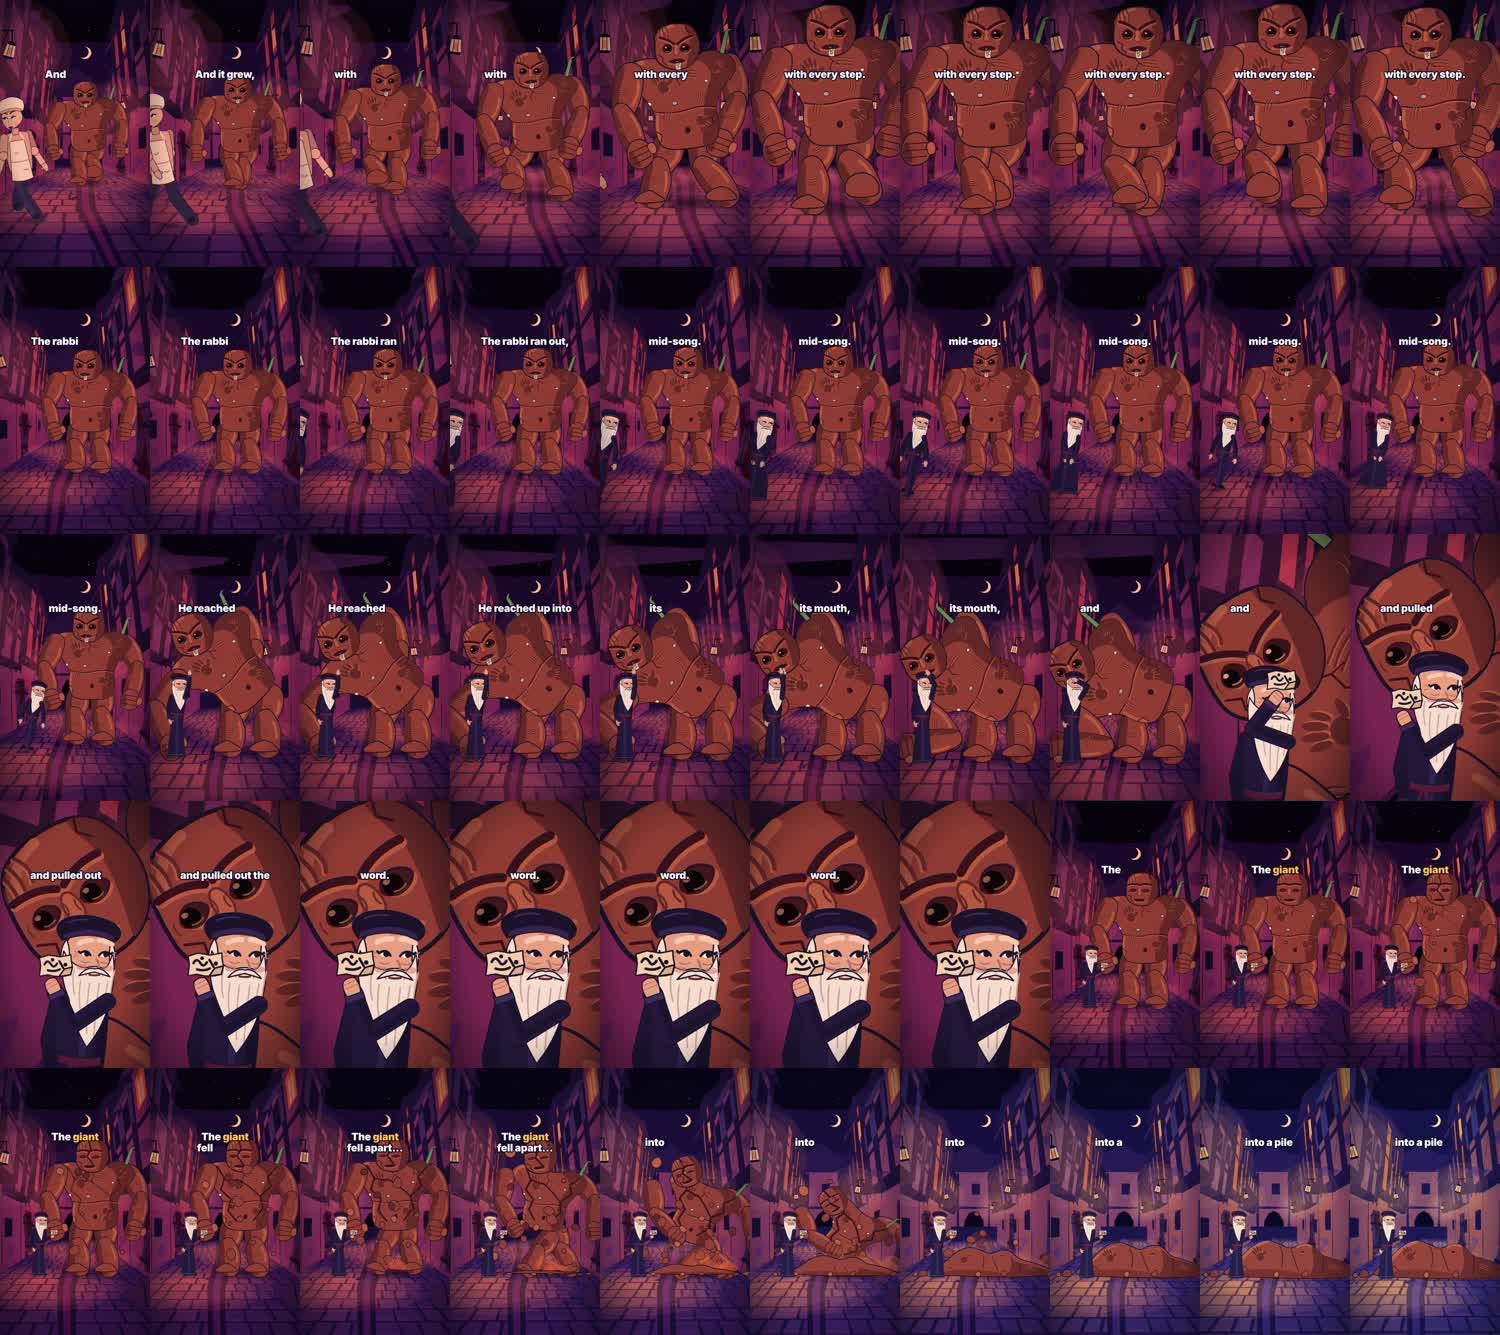
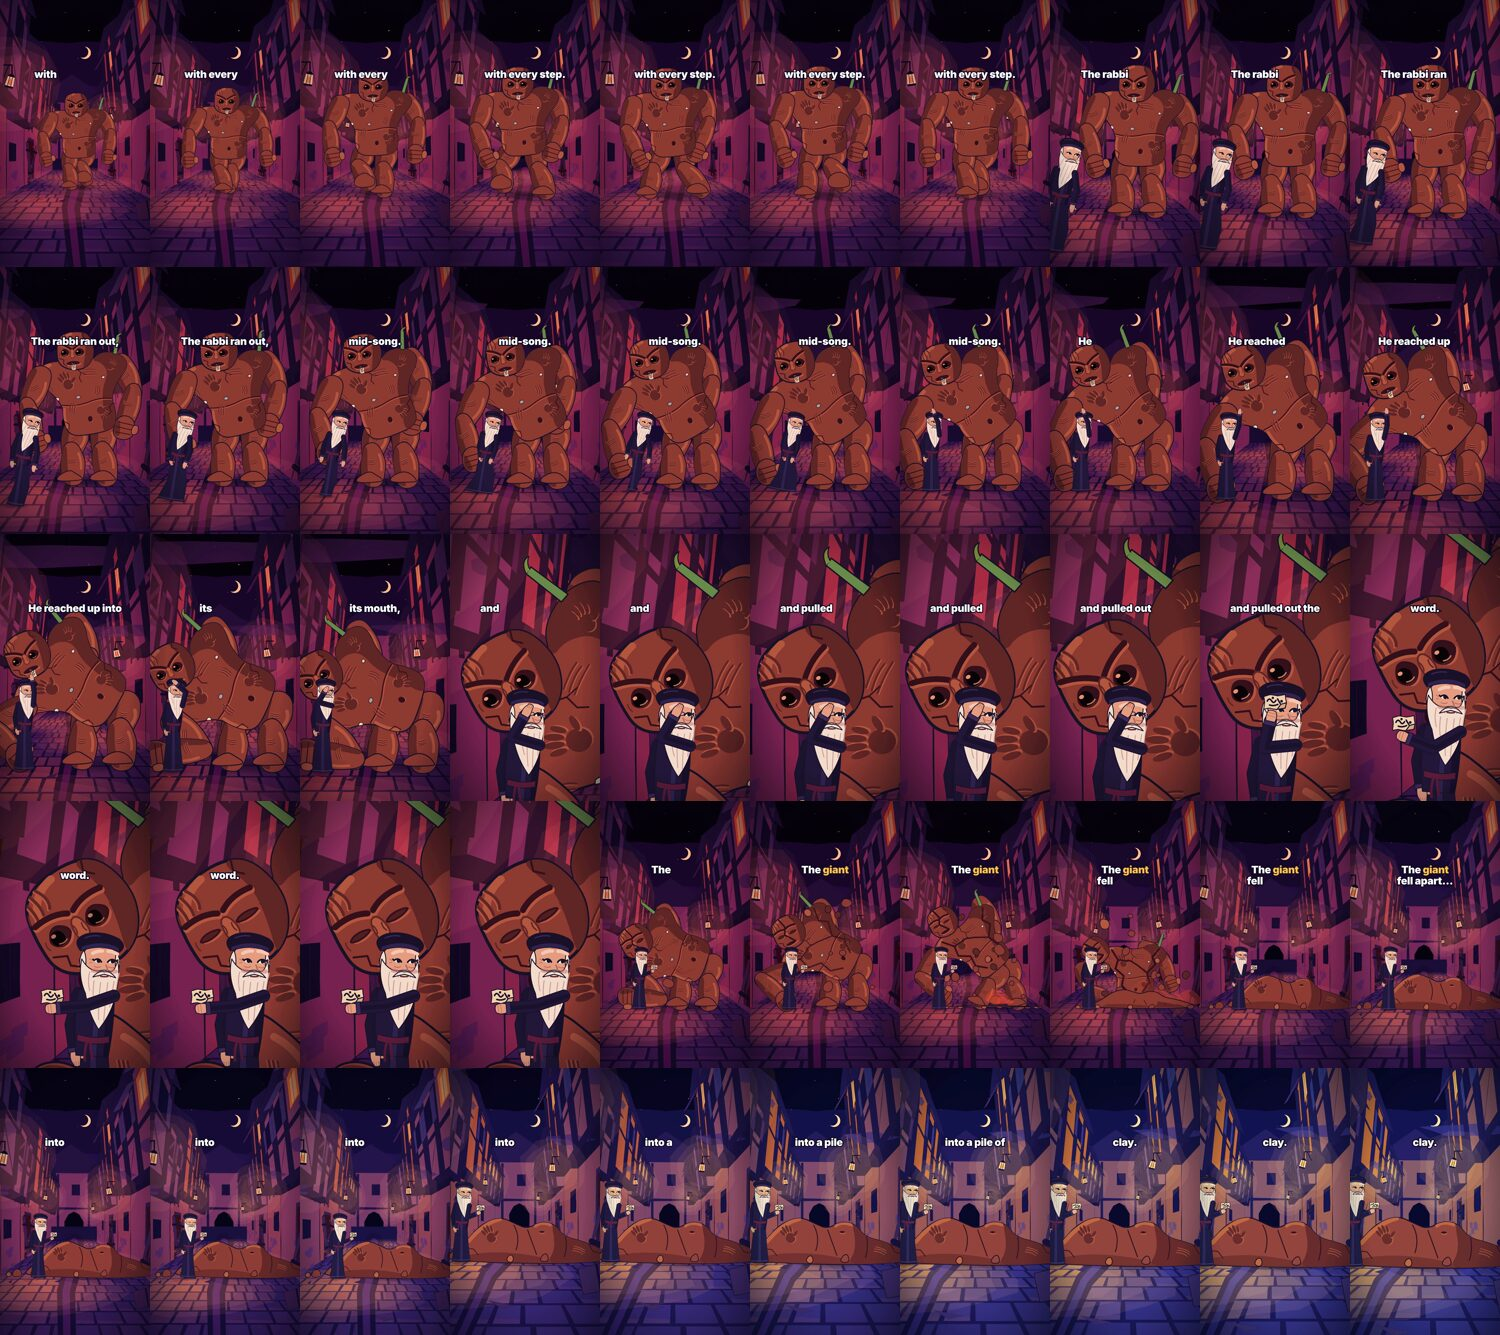
Temp: Sol r2 pack for Golem draft 2 (delete after use)

diff --git a/sol-pack/prompt.md b/sol-pack/prompt.md
@@ -1,15 +1,20 @@
-# Sol round 1: EDITOR pass (timing first) + glitch/logic review — "The Golem of Prague" (lesson-legend, rough draft 1)
+# Sol round 2: EDITOR pass (timing first) + glitch/logic review — "The Golem of Prague" (lesson-legend, draft 2)
 
-You are the editor and checker of an 87.6 s vertical (1080x1920, 30 fps) TikTok short. You get NO video, only files in this folder:
+You are the editor and checker of an 84.8 s vertical (1080x1920, 30 fps) TikTok short. You get NO video, only files in this folder:
 - `beats.txt`: every spoken line with its start-end time (s), speaker and text.
-- `sheet-1fps-00-47s.jpg`, `sheet-1fps-48-88s.jpg`: one frame per second (12 per row, left to right, top to bottom; the second sheet starts at 48 s).
+- `sheet-1fps-00-47s.jpg`, `sheet-1fps-48-84s.jpg`: one frame per second (12 per row, left to right, top to bottom; the second sheet starts at 48 s).
 - `strip-5fps-00s.jpg` ... `strip-5fps-80s.jpg`: five frames per second, each sheet covers 10 s (10 per row = 2 s per row), starting at the second in its name.
 
 ## The video
 The Golem of Prague legend (Rabbi Loew, Prague ~1600), told by two recurring hosts TODAY in Prague's Jewish Quarter at Friday dusk, outside the Old-New Synagogue whose back wall has iron rungs starting high up, leading to a small attic door: a curious, cheeky 12-year-old boy (pink quilted jacket) and his stern grandmother (indigo cloak, white bun, staff with a candle lantern = fear meter). The told story: the river at dawn (rabbi shapes a clay giant, puts a paper slip with a holy word in its mouth, it wakes), the night lane (it guards, carries a whole well ring), the rule ("Every Friday before sunset, I take the word out"), the synagogue during the Sabbath song (a woman bursts in), the rampage (doors split, cart thrown, it grows), the rabbi pulls the slip from its mouth, it crumbles to a clay pile, the attic (pile, 1920 reporter finds only dust), back to today: "Then why do they still sing that song twice? Every Friday." The song through the window, one heavy step in the attic, hard cut.
-SPECIAL: an OPENING TITLE (stone plaque "THE GOLEM ...it only rests on Friday nights") shows 0.25-2.6 s ABOVE the subtitles. It is deliberate (a trial); judge only its timing/readability, do not ask to remove it.
+SPECIAL: an OPENING TITLE (stone plaque "THE GOLEM ...it only rests on Friday nights") shows 0.25-2.6 s ABOVE the subtitles. It is deliberate; judge only its timing/readability, do not ask to remove it. The kid/grandmother lines L09 and L10 stay (the owner approved them as the format's dry host comedy); do not ask to cut them.
 Narrator + character voices, word-by-word subtitles in the upper third (fixed layout, each word appears when spoken). Colour follows mood (violet-rose dusk today, teal dawn river, indigo lane, gold synagogue, red-black rampage, brown attic). Music: lute + bass viol + frame drum; it stops dead on "Until one Friday" and for 0.4 s when the slip leaves the mouth.
 Everything is drawn in code (flat 2D vector, thin outlines, 2.5D sets with a moving camera). What can change cheaply: camera position/move/zoom per shot, cut points, shot order, holds and gaps, poses and expressions, inserts (close-ups of hands, the slip, the golem's eyes, the candle, the rungs, the attic door), music timing. Lines can be trimmed or dropped (not newly recorded easily). NEVER suggest a trim that cuts into a spoken word.
+
+## Round 1 asked for these fixes (what was done, what was not)
+DONE: A1 ending: song repeats under the lit window on "twice?", camera climbs from the hosts to the dark attic door through "Every Friday", one heavy step 0.62 s after the line, door shake + dust puff + flame gutter, hard cut 2 frames later (hosts at the bottom of the frame, small). A2 opening: tight on the boy's raised hands under the first rung, cut on "DOWN" to a medium two-shot with her hand on his jacket, his whole question in his close-up, tilt up the rungs in the gap. A4 rabbi runs in whole, golem bends continuously, tight on the slip held in the lips, it clears at the end of "word", eyes close on release, 0.4 s silence. A5 score killed on "Until one Friday", lane darkens, gold hall on the first sung phrase, tight on the slip in its mouth at "still in its mouth", song carries over. A6 two-shot rise with finger to the mouth, brief sinking-sun insert, golem standing for "even you rest" with its head under the captions. A7 distant crack, woman crossing the threshold, cut to Loew's reaction on "the giant". A8 impact shots end on their result, cart is released then flies out, growth against a doorway. A9 title: full contrast by 0.40, bigger darker tagline, readable to 2.29, gone by 2.6, above the subtitles. A10 writing hand, slip meets lips with the hand following, eye close-up with closed lids before the first blink. A11 Prague wide, push down the lane, resident goes into a doorway on "had enemies", camera carried past on "nobody to protect it". A12 Loew walks in and kneels, thumb in clay on "shaped", whole body fades in on "giant". A13 three Fridays with one camera and one hand-to-mouth action, eyes close each time, the boy in the gap before "So nothing happened". A14 tracking shot of the patrol, then the carried ring in a tighter shot. A15 settled pile held, new low angle on "into a pile of clay", clay carried through the lane, ladder carried off the wall, reporter's light to loose dust on "only dust". Part B: 1, 2, 3, 4 (lantern moved off the caption), 5, 6, 7, 9, 10, 11 (partly), 12, 13, 14 (shot by shot), 15 (ring on the shoulder, clear of the face), 16, 17 (captions clear at every cut), 18, 19, 20, 21, 22, 23, 24, 25, 26, 27, 29 (ladder carried away), 30 (he climbs a ladder up the wall rungs and in through the small door, then walks on boards), 31 (pile shrinks, dust lifts), 32 (the window is drawn unlit from the first shot), 33, 34 (flame gutters at the thud), 35.
+NOT DONE: A3 (cut L09+L10): kept on the owner's instruction; the gaps around them were tightened instead. B8 (paper floating above Loew's fist, pinching a corner, writing tool): the rig holds the slip at the grip point and there is no pen prop. B11 (golem buried in the bank while sitting): only improved by lifting it a little, no new leg pose. B28 (carry one chunk of the leaning head into the pile): the crumble is one continuous animation, not tuned per chunk. B33 (attic door panelled -> black): the door is drawn the same way in every shot, but it is still a plain dark recess in the last shots. Sound: the muffled "across the lane" lowpass of the repeat is unchanged.
+Check that these landed, then list anything still wrong. Max 2 rounds total: this is the last one.
 
 ## Part A — EDITOR (main task, TIMING FIRST)
 Make it hold viewers better: where to cut earlier or later, which holds and gaps to shorten or lengthen, which shots last too long or too short, where a still shot should get a camera move or a cut, where an insert would make a beat land, where tension needs a beat of silence. House rules: hook in the first 1-2 s; still shots lose viewers, so move the camera or cut right after each action; end on the punchline (fast end); no gore; target ~80-85 s at normal speed, every beat must earn its time.
